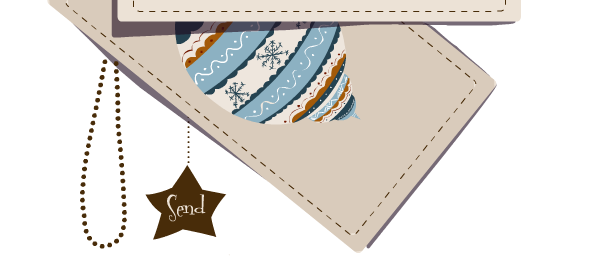
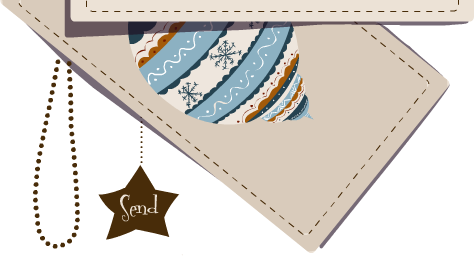
changed contact-form-7-style classic design
number position changed

git-svn-id: https://plugins.svn.wordpress.org/contact-form-7-style/trunk@852491 b8457f37-d9ea-0310-8a92-e5e31aec5664

diff --git a/css/frontend.css b/css/frontend.css
@@ -10,38 +10,41 @@ Xmas Classic
 	position: relative;
 }
 .xmas-classic .wpcf7 form {
-	overflow:hidden;
-	display: block;
-	width: 100%;
-	margin: auto;
-	text-align: center;
-	background: url("../images/xmas-classic/bg-repeat.png") 118px 10px repeat-y;
+    background: url("../images/xmas-classic/bg-repeat.png") repeat-y scroll 1px 1px rgba(0, 0, 0, 0);
+    display: block;
+    margin: auto;
+    overflow: hidden;
+    text-align: center;
+    width: 100%;
 }
 .xmas-classic .header {
-	background: url("../images/xmas-classic/top_border.png") 0 0 no-repeat;
-	width: 100%;
-	height: 30px;
+    background: url("../images/xmas-classic/top_border.png") no-repeat scroll 0 0 rgba(0, 0, 0, 0);
+    height: 23px;
+    width: 100%;
 }
 .xmas-classic .left {
-	background: url("../images/xmas-classic/left_part_bg.png") no-repeat scroll 0 0 rgba(0, 0, 0, 0);
-	bottom: 255px;
-	height: 129px;
-	position: absolute;
-	width: 145px;
+    background: url("../images/xmas-classic/left_part_bg.png") no-repeat scroll 0 0 rgba(0, 0, 0, 0);
+    bottom: 255px;
+    height: 129px;
+    left: -73px;
+    position: absolute;
+    width: 99px;
 }
 .xmas-classic .wpcf7 p {
-	margin-bottom: 20px;
-	color: #482c09;
-	width: 350px;
-	margin-left: 145px;
+    color: #482C09;
+    margin-bottom: 20px;
+    margin-left: 27px;
+    width: 350px;
 }
-.xmas-classic .wpcf7 span{
-	display: block;
+.xmas-classic .wpcf7 span {
+    display: block;
 }
 .xmas-classic .footer {
-	background: url("../images/xmas-classic/bottombg.png") 0 0 no-repeat;
-	width: 100%;
-	height: 255px;
+    background: url("../images/xmas-classic/bottombg.png") no-repeat scroll 0 0 rgba(0, 0, 0, 0);
+    bottom: 0;
+    height: 255px;
+    margin-left: -70px;
+    width: 100%;
 }
 .xmas-classic .wpcf7 form input, 
 .xmas-classic .wpcf7 form textarea {
@@ -74,7 +77,7 @@ Xmas Classic
 	border: medium none;
 	bottom: 20px;
 	height: 54px;
-	left: 146px;
+	left: 30px;
 	position: absolute;
 	text-indent: -9999px;
 	width: 78px;
@@ -140,8 +143,8 @@ Xmas Red
 	text-indent: -9999px;
 	border: none;
 	-webkit-box-shadow: none;
-	   -moz-box-shadow: none;
-	        box-shadow: none;
+	-moz-box-shadow: none;
+	box-shadow: none;
 }
 
 .xmas-red .wpcf7-validation-errors,
@@ -149,10 +152,11 @@ Xmas Red
 .xmas-classic .wpcf7-validation-errors,
 .xmas-classic .wpcf7-mail-sent-ok{
 	border: none;
-	margin: 0 auto;
-	width: 380px;	
+	width: 350px;	
 	font-size: 22px;
 	color: #FC8181;
+	margin-left: 25px;
+	padding: 0;
 }
 
 .xmas-red .wpcf7-mail-sent-ok,

diff --git a/cf7-style-settings.php b/cf7-style-settings.php
@@ -59,7 +59,7 @@ function cf7_style_add_admin() {
 		basename(__FILE__),
 		'cf7_style_menu',
 		'',
-		28.5
+		28.666
 	);
 
 	add_submenu_page(
